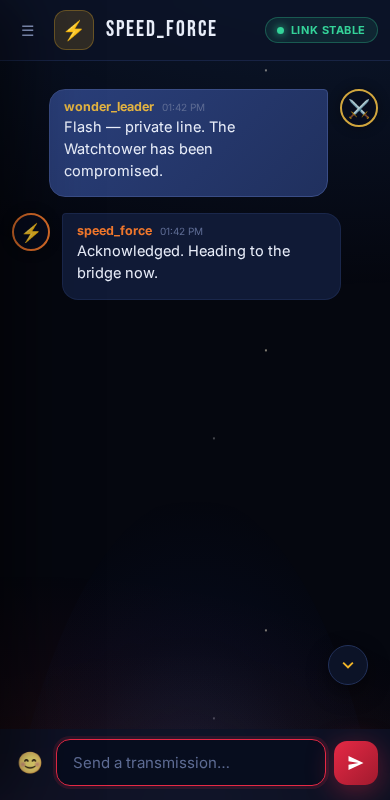
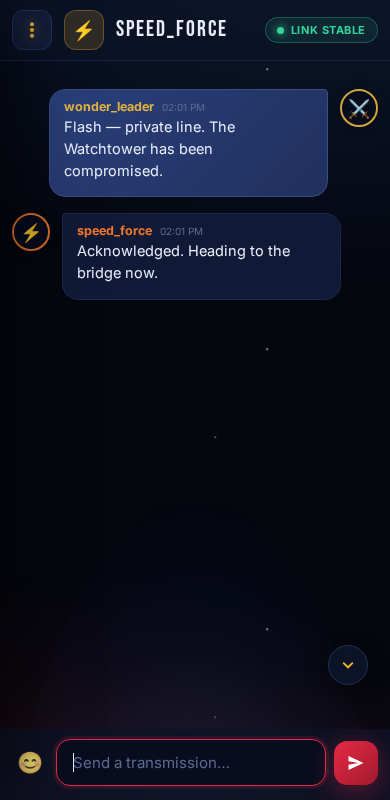
feat(mobile): prominent 3-dot channels button with unread badge

diff --git a/public/style.css b/public/style.css
@@ -572,6 +572,27 @@ ul { list-style: none; }
 ::-webkit-scrollbar-track { background: transparent; }
 
 /* ---------------- responsive ---------------- */
+/* ---- the 3-dot channels button (mobile) ---- */
+.menu-btn {
+  position: relative;
+  width: 40px; height: 40px; border-radius: 11px;
+  background: var(--bg-hover); border: 1px solid var(--line);
+  color: var(--gold); flex-shrink: 0;
+  display: none; /* shown on mobile below */
+}
+.menu-btn svg { width: 20px; height: 20px; filter: drop-shadow(0 0 6px rgba(240, 180, 41, 0.5)); }
+.menu-btn:active { transform: scale(0.92); }
+.menu-badge {
+  position: absolute; top: -5px; right: -5px;
+  min-width: 18px; height: 18px; line-height: 18px; text-align: center;
+  padding: 0 4px; border-radius: 999px;
+  background: var(--red); color: #fff;
+  font-size: 10px; font-weight: 800;
+  box-shadow: 0 0 10px rgba(230, 41, 69, 0.55);
+  border: 2px solid var(--bg-panel-solid);
+}
+.menu-badge[hidden] { display: none; }
+
 .backdrop-dim {
   position: fixed; inset: 0; z-index: 29;
   background: rgba(3, 5, 12, 0.6); backdrop-filter: blur(2px);
@@ -580,6 +601,7 @@ ul { list-style: none; }
 
 @media (max-width: 860px) {
   .mobile-only { display: inline-flex; }
+  .menu-btn { display: inline-flex; align-items: center; justify-content: center; }
   .chat { grid-template-columns: 1fr; }
   .sidebar {
     position: fixed; top: 0; bottom: 0; left: 0; width: min(84vw, 300px); z-index: 30;

diff --git a/public/index.html b/public/index.html
@@ -151,7 +151,14 @@
 
     <section class="panel">
       <header class="panel-head">
-        <button id="menu-btn" class="icon-btn mobile-only" aria-label="Open menu">☰</button>
+        <button id="menu-btn" class="icon-btn mobile-only menu-btn" aria-label="Open channels and messages menu" title="Channels & messages">
+          <svg viewBox="0 0 24 24" aria-hidden="true">
+            <circle cx="12" cy="5" r="2.4" fill="currentColor" />
+            <circle cx="12" cy="12" r="2.4" fill="currentColor" />
+            <circle cx="12" cy="19" r="2.4" fill="currentColor" />
+          </svg>
+          <span id="menu-badge" class="menu-badge" hidden>0</span>
+        </button>
         <div class="panel-title">
           <span id="panel-icon" class="panel-icon">#</span>
           <div>

diff --git a/public/app.js b/public/app.js
@@ -694,6 +694,11 @@
     let unread = 0;
     for (const c of state.chats.values()) unread += c.unread || 0;
     document.title = (unread ? `(${unread}) ` : '') + 'Justice League Chat';
+    const menuBadge = document.getElementById('menu-badge');
+    if (menuBadge) {
+      menuBadge.hidden = !unread;
+      menuBadge.textContent = unread > 99 ? '99+' : String(unread);
+    }
   }
 
   function scrollToBottom(smooth) {
